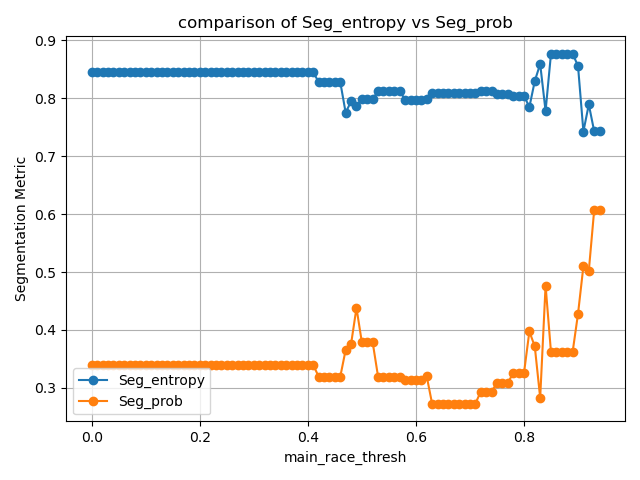
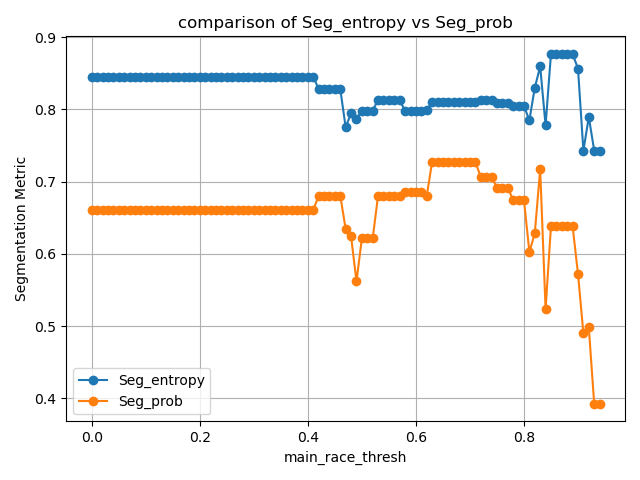
update files

diff --git a/calculation/comparison.py b/calculation/comparison.py
@@ -43,26 +43,26 @@ def load_data(area, transit_score, main_race_thresh,
             '''
             3
             '''
-            if score >= good_thresh:
-                y_label = 'good'
-            elif score >= bad_thresh:
-                y_label = 'average'
-            else: 
-                y_label = 'bad'
+            # if score >= good_thresh:
+            #     y_label = 'good'
+            # elif score >= bad_thresh:
+            #     y_label = 'average'
+            # else: 
+            #     y_label = 'bad'
 
             '''
             5
             '''
-            # if score >= very_good_thresh:
-            #     y_label = 'very_good'
-            # elif score >= good_thresh:
-            #     y_label = 'good'
-            # elif score >= bad_thresh:
-            #     y_label = 'average'
-            # elif score >= very_bad_thresh:
-            #     y_label = 'bad'
-            # else:
-            #     y_label = 'very_bad'
+            if score >= very_good_thresh:
+                y_label = 'very_good'
+            elif score >= good_thresh:
+                y_label = 'good'
+            elif score >= bad_thresh:
+                y_label = 'average'
+            elif score >= very_bad_thresh:
+                y_label = 'bad'
+            else:
+                y_label = 'very_bad'
 
 
             transit[z] = y_label
@@ -141,8 +141,8 @@ def compute_prob(labels_X, labels_Y, pop_XY, pop_Y):
     Normalized
     '''
     seg_prob_norm = seg_prob / max_seg if max_seg>0 else float('nan')
-
-    return seg_prob_norm
+    seg_prob_flip = 1 - seg_prob_norm
+    return seg_prob_flip
 
 area = "county"
 transit_score = "walk_score"

diff --git a/calculation/visualizer.py b/calculation/visualizer.py
@@ -39,12 +39,12 @@ ZIP_FIELD = "ZCTA5CE20"
 
 zcta_gdf = gpd.read_file(SHAPEFILE_PATH)
 # only keep zcta that is in our header's category
-county_gdf = zcta_gdf[zcta_gdf[ZIP_FIELD].isin(label_by_zip)].copy()
-county_gdf["category"] = county_gdf[ZIP_FIELD].map(label_by_zip).fillna("unknown")
+area_gdf = zcta_gdf[zcta_gdf[ZIP_FIELD].isin(label_by_zip)].copy()
+area_gdf["category"] = area_gdf[ZIP_FIELD].map(label_by_zip).fillna("unknown")
 
 unique_labels = list(headers) + ["unknown"]
 category_numeric = {lab: i for i, lab in enumerate(unique_labels)}
-county_gdf["category_num"] = county_gdf["category"].map(category_numeric)
+area_gdf["category_num"] = area_gdf["category"].map(category_numeric)
 
 # remember to make sure each label has a cooresponidng color
 color_map = {
@@ -53,18 +53,18 @@ color_map = {
 }
 
 fig, ax = plt.subplots(1, 1, figsize=(10, 10))
-county_gdf.plot(
+area_gdf.plot(
     column="category",
     categorical=True,
     legend=True,
-    color=county_gdf["category"].map(color_map),
+    color=area_gdf["category"].map(color_map),
     edgecolor="black",
     linewidth=0.5,
     ax=ax
 )
 
 # Add zip code on each area block
-for idx, row in county_gdf.iterrows():
+for idx, row in area_gdf.iterrows():
     centroid = row["geometry"].centroid
     zip_code = row[ZIP_FIELD]
     ax.text(
@@ -94,7 +94,7 @@ def style_function(feature):
 
 m = folium.Map(location=[38.63, -90.42], zoom_start=10, tiles="cartodbpositron")
 folium.GeoJson(
-    county_gdf.__geo_interface__,
+    area_gdf.__geo_interface__,
     name=f"{table} Category",
     style_function=style_function,
     tooltip=folium.GeoJsonTooltip(fields=[ZIP_FIELD, "category"])
